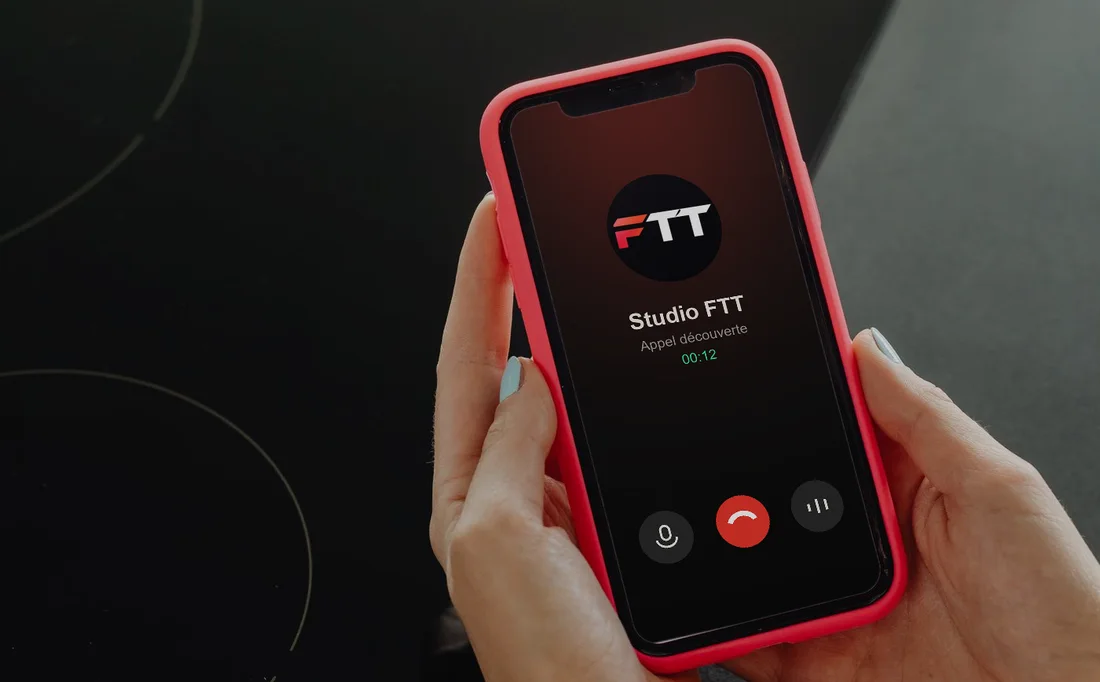
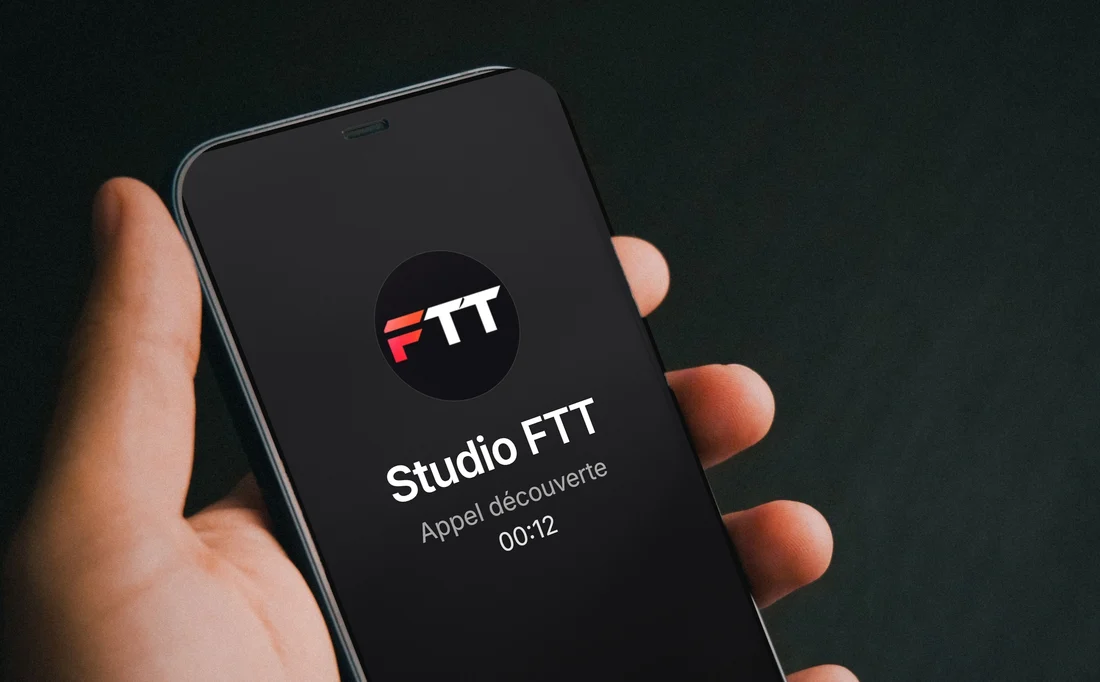
Carte « Je vous appelle » : nouvelle photo main + téléphone, écran d'appel Studio FTT posé en perspective

diff --git a/components/ApprocheSection.tsx b/components/ApprocheSection.tsx
@@ -5,7 +5,8 @@ import SectionHeader from "@/components/SectionHeader";
 import { APPROCHE, type ApprocheStep } from "@/lib/data";
 
 /* ---------------------------------------------------------------------------
- * Visuels des cartes : photos Pexels libres de droits (mains + appareils), montées en mockup
+ * Visuels des cartes : photos Pexels libres de droits (mains + appareils), montées en mockup.
+ * Carte 1 refaite le 04/10/2026 : photo Pexels 13570135 (jibarofoto), écran d'appel posé en perspective.
  * (écran d'appel avec le vrai logo /logo_ftt.png, démo Marceau sur le portable).
  * ------------------------------------------------------------------------- */
 const VISUELS: { src: string; alt: string }[] = [
